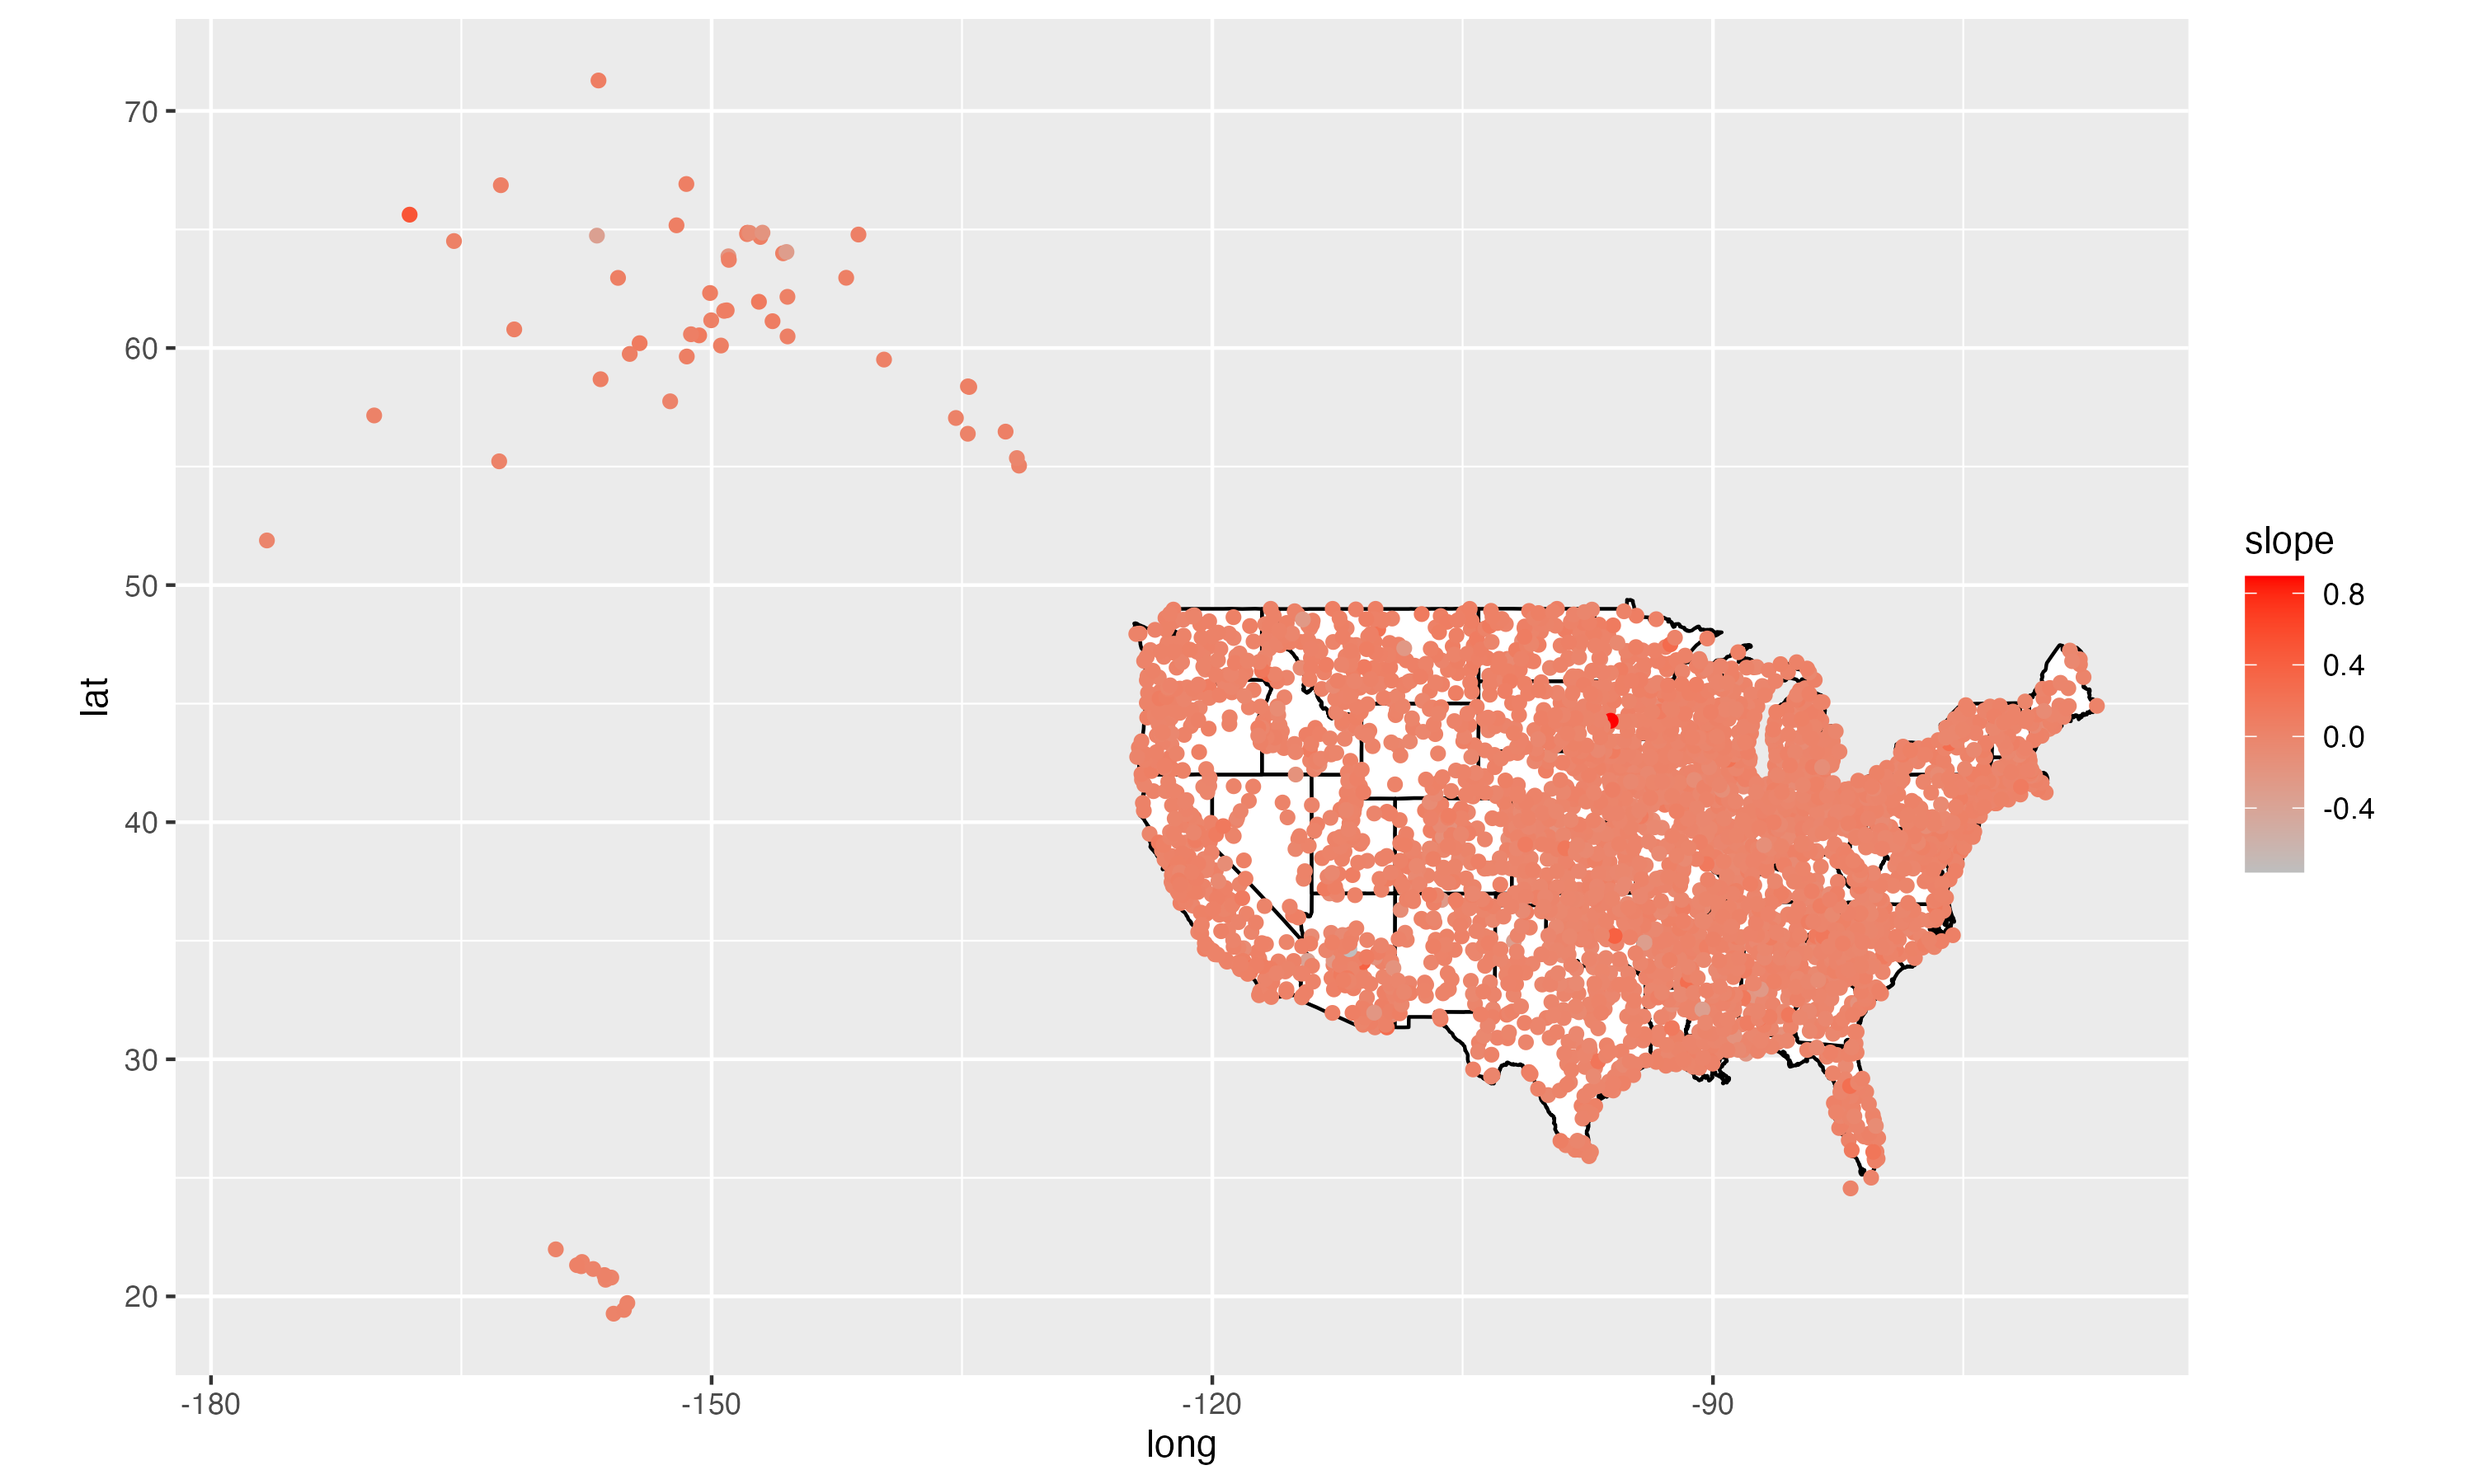
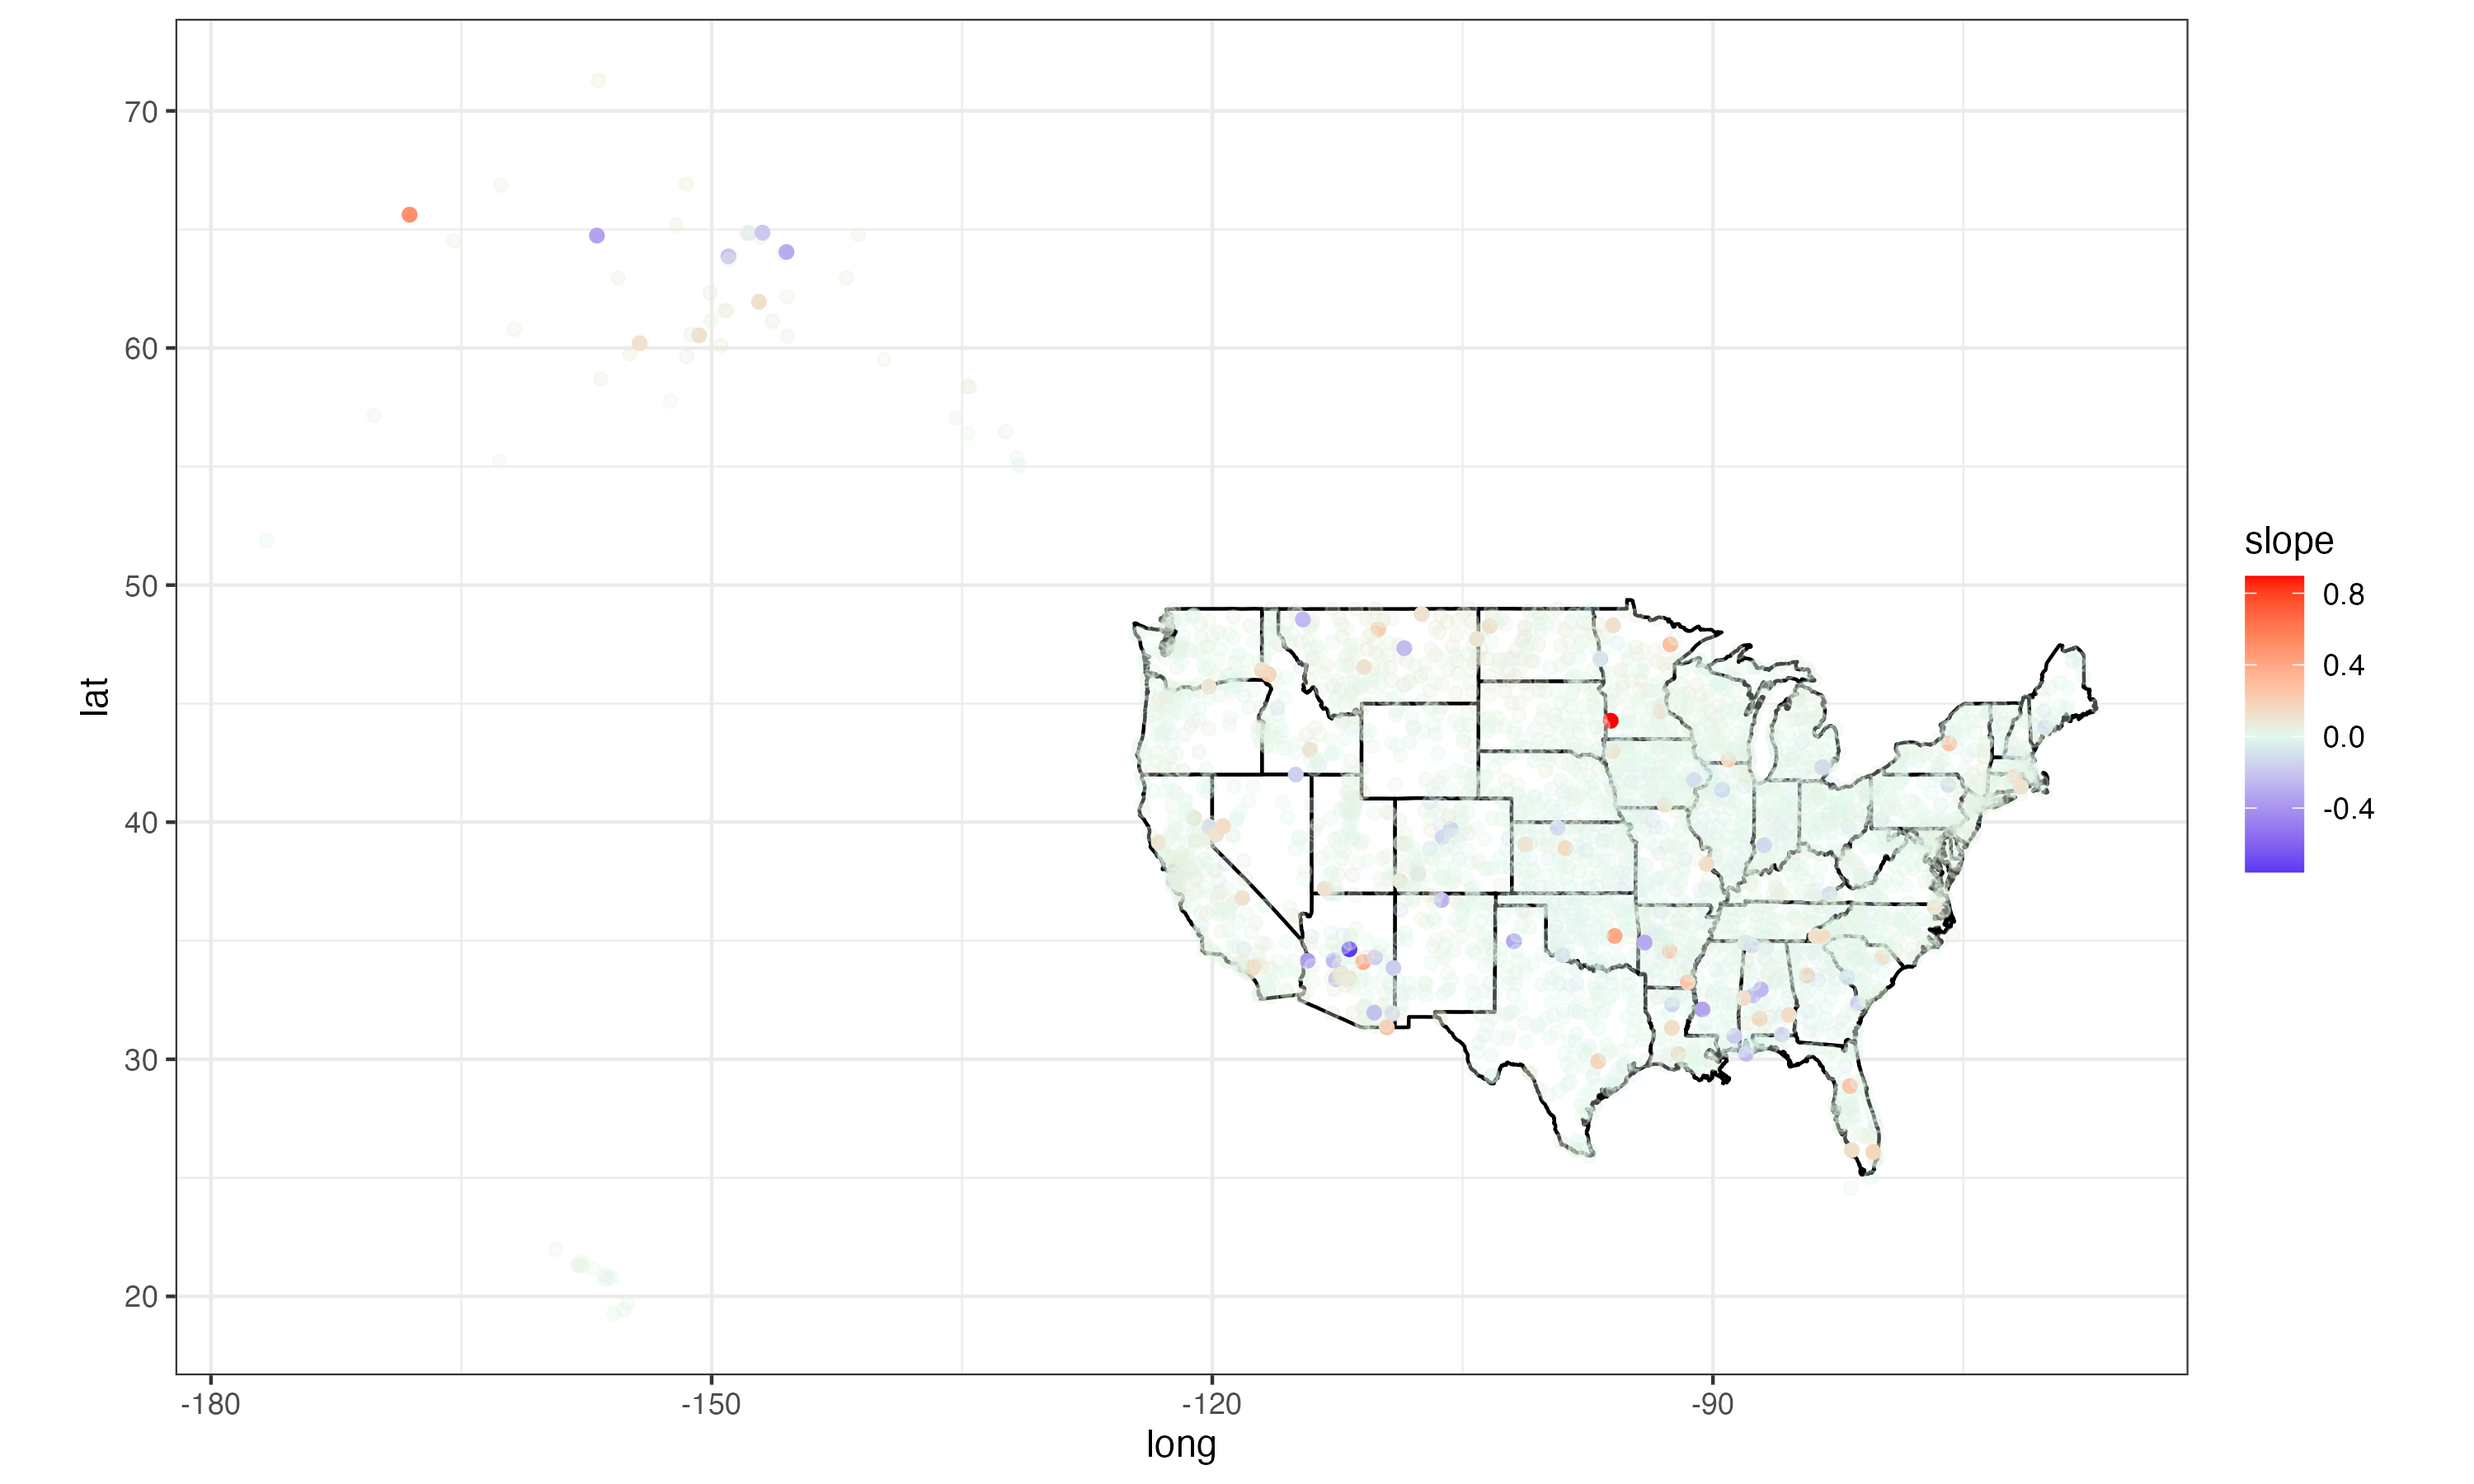
unit 4

diff --git a/Unit04_modularity/writeup.md b/Unit04_modularity/writeup.md
@@ -1,0 +1,13 @@
+Write up - Unit 4 
+
+Climate fluctuates drastically over decades and influences human life expectancy across the world. However, climate also changes differently across locations within a country, but the magnitude of this variation remains unclear. We examine annual temperature and precipitation from different weather stations in the USA from 1950 to 2008. 
+
+Overall, in most locations, there are more records of increases in precipitation and temperature over the years. Visually inspecting, annual temperature has increased in some stations in Florida and Louisiana, but in Mississippi and Arizona, more stations were on a decreasing trend. Precipitation records were mostly from Ohio, Alabama and Tennessee, and they have increased over time. 
+
+However, there is an imbalance between two climatic variables, with about 12 times as many records for temperature as for precipitation. Besides, precipitation was reported mostly in only three states, which would not provide a clear examination for the USA. Besides, annual records do not quantify season-specific temperature changes, which might mask out changes in climate to some degree. 
+
+Regardless, this report provides an interesting insight of climatic changes in USA over 50 years. Fluctuations in climate, especially temperature and precipitation, can influence life's expectancy drastically, hence, understanding its magnitude is crucial. 
+
+Side note: 
+Also, I used `time Rscript main.R` to time how long the code will run on my local machine - it took me 18.83 seconds to run the script. 
+Output directly from terminal: Rscript main.R  18.41s user 0.17s system 98% cpu 18.829 total

diff --git a/README.md b/README.md
@@ -44,3 +44,9 @@ Table 1: Summary of models error rates
 | XGBoost     | 0.6596508  |
 
 With error rate on test set is slightly lower than on train set, it means that there is low chance that our trained random forest model was overfitting or performing random guess (accuracy not 0.5). Biologically speaking, if we just based on morphologies of abalone as a marker and fit a random forest model to predict its sex (male, female or intersex), our model will predict wrong ~43% of the time, which is not really bad but also not really good. It can be because of the intersex classification (I), which was used when they got an infant abalone and not sure its sex yet, so maybe removing I class can help with prediction.  
+
+## Unit 4 - Modularity 
+
+- Practice writing function and structuring code / comments
+- Examine temperature and precipitation records of different locations in USA from 1950 to 2008 to observe trends over time using linear regression
+- Main code is at main.R, write up is at writeup.md 
